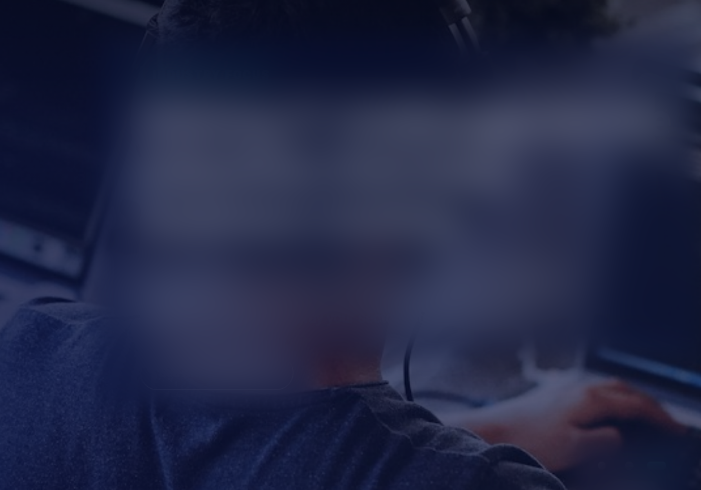
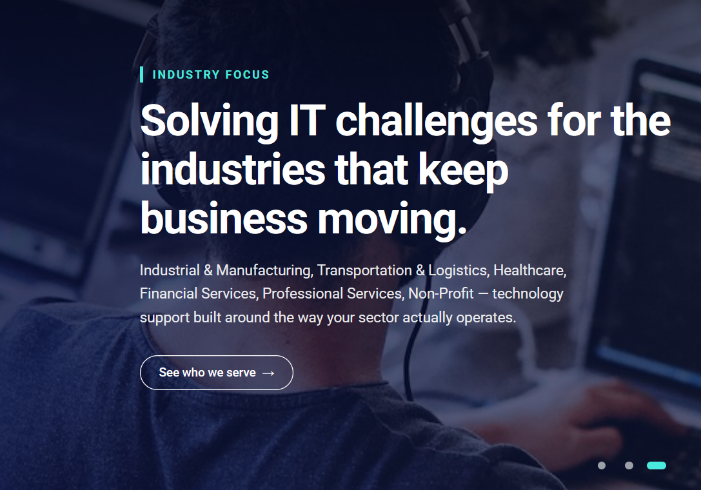
refine(hero): restore image visibility beneath overlay

diff --git a/src/components/sections/HeroCarousel.jsx b/src/components/sections/HeroCarousel.jsx
@@ -54,7 +54,7 @@ export default function HeroCarousel() {
                 className={`absolute inset-0 h-full w-full object-cover ${selected === i ? 'hero-zoom' : ''}`}
                 onError={(e) => { e.currentTarget.style.display = 'none' }}
               />
-              <div className="absolute inset-0 bg-[linear-gradient(90deg,#070e40_0%,#070e40_60%,rgba(7,14,64,0.7)_100%)]" aria-hidden="true" />
+              <div className="absolute inset-0 bg-[rgba(7,14,64,0.68)]" aria-hidden="true" />
 
               <div className="shell-container relative flex min-h-[28rem] items-center pb-20 pt-28 sm:min-h-[34rem] md:min-h-[40rem] md:pb-24 md:pt-36 lg:min-h-[44rem]">
                 <div className={`hero-copy max-w-2xl text-white ${selected === i ? 'is-active' : ''}`}>
